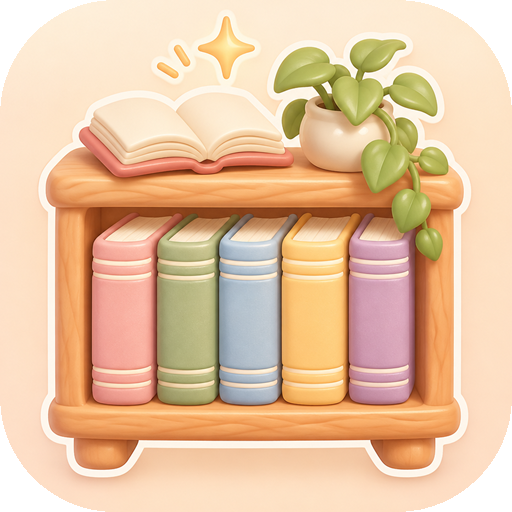
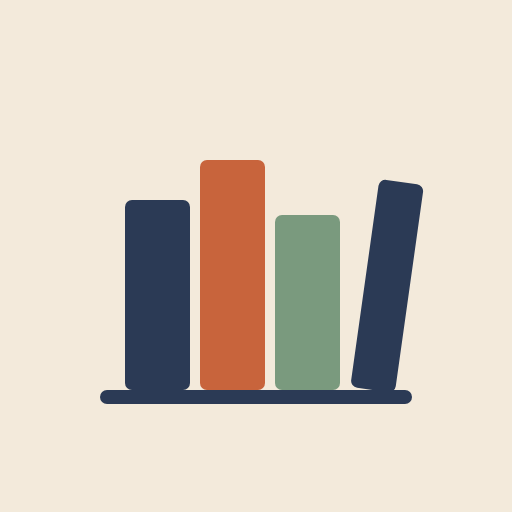
책장 아이콘: 단순한 평면 책장 그림으로 교체 (홈 화면에서 번잡하다는 피드백)

diff --git a/my/sw.js b/my/sw.js
@@ -1,6 +1,6 @@
 // 범용판 앱 파일 캐시. 기록은 IndexedDB에 있어 여기서 다루지 않는다. 네트워크 먼저, 끊기면 캐시.
 // 캐시 이름을 bookshelf-로 시작하지 않는다(효니 책장의 sw.js가 그 이름들을 정리한다).
-const VERSION = 'v33';
+const VERSION = 'v34';
 const CACHE = 'myshelf-' + VERSION;
 const FILES = ['./', 'index.html', 'manifest.webmanifest', '../css/app.css', '../js/app.js', '../js/fb.js', '../js/local.js', '../js/words.js', '../js/guess.js', '../icons/icon-192.png', '../icons/icon-512.png'];
 self.addEventListener('install', (e) => e.waitUntil(caches.open(CACHE).then((c) => c.addAll(FILES)).then(() => self.skipWaiting())));

diff --git a/sw.js b/sw.js
@@ -1,5 +1,5 @@
 // 앱 파일과 공개 책장만 캐시한다(비공개 기록은 캐시하지 않음). 네트워크 먼저, 끊기면 캐시.
-const VERSION = 'v40';
+const VERSION = 'v41';
 const CACHE = 'bookshelf-' + VERSION;
 const FILES = ['./', 'index.html', 'css/app.css', 'js/app.js', 'js/fb.js', 'js/local.js', 'js/words.js', 'js/guess.js', 'data/public.json', 'data/blog.json', 'manifest.webmanifest', 'icons/icon-192.png', 'icons/icon-512.png'];
 self.addEventListener('install', (e) => e.waitUntil(caches.open(CACHE).then((c) => c.addAll(FILES)).then(() => self.skipWaiting())));
